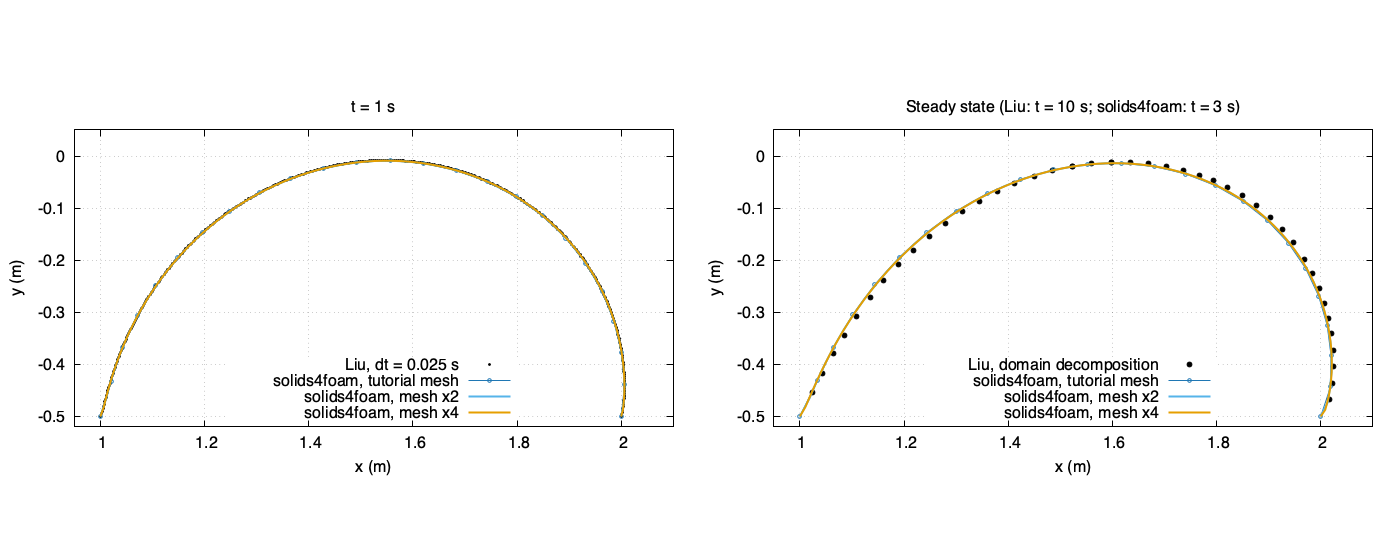
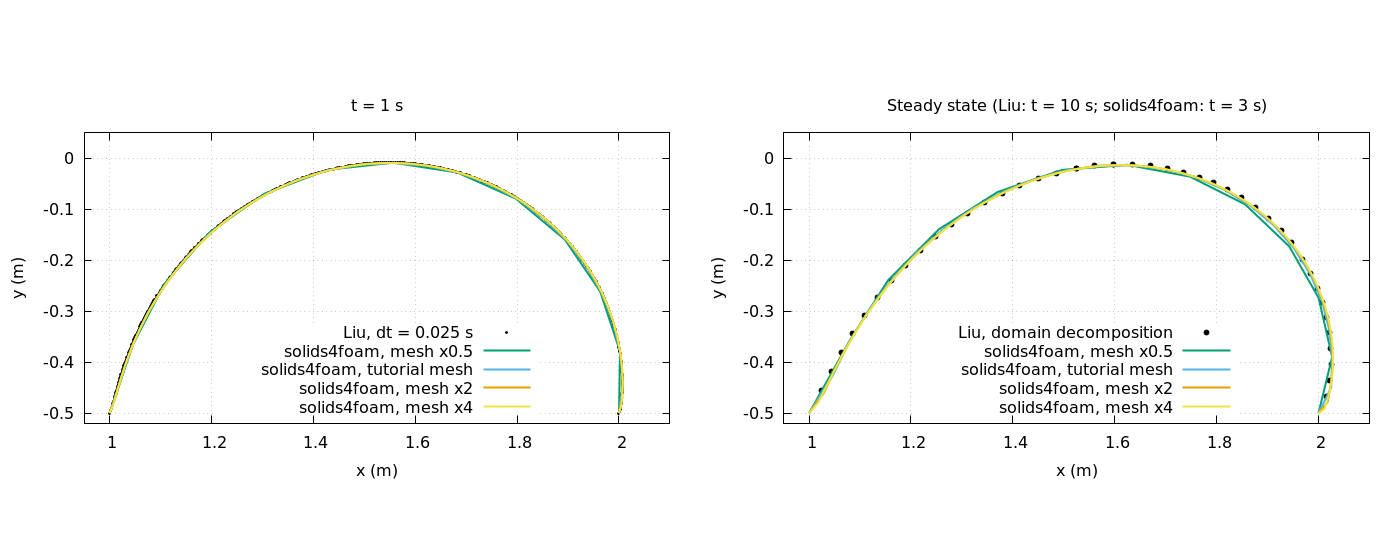
blobInTreacle: regression references, README and figures for the finite-strain solid
Regenerate the regression references (OpenFOAM v2512, serial), rewrite
the case description, and re-record the verification study: the time
study now shows orders 2.13 and 2.21 (2.4-2.5 before), and the mesh study
converges at order 2.00 to an extrapolated u_x of 0.14024 m, 7.9% above
the published small-strain value.

diff --git a/tutorials/fluidSolidInteraction/blobInTreacle/verification/README.md b/tutorials/fluidSolidInteraction/blobInTreacle/verification/README.md
@@ -53,9 +53,12 @@ directories, as does `./Allclean all` in the case directory; the plain case
 
 Liu et al. (2014) report only the self-convergence of their errors in time,
 not the solution itself. The preprint solves the same case, with the same
-geometry, inflow ramp and material, and describes the solid as linear. Two of
-its figures are vector graphics, from which the reference data were extracted
-exactly rather than digitised:
+geometry, inflow ramp and material, and describes the solid as linear. The
+tutorial uses a finite-strain neo-Hookean solid with the same Lamé constants
+instead (see the tutorial README), so the published data are solutions of a
+slightly different, small-strain model, and the comparison with them is
+indicative only. Two of the preprint's figures are vector graphics, from which
+the reference data were extracted exactly rather than digitised:
 
 - `reference/LiuInterface_t1.csv`: the deformed interface at `t = 1 s` from
   Fig. 5.3, computed on a P5/P4/P5 mesh with a first-order scheme and
@@ -123,12 +126,12 @@ Acceptance criteria and their basis:
 - The change in the steady `u_x` between successive levels must decrease, with
   an observed order of at least `1.5` from the three finest levels, and the
   finest `u_x` must be within 1% of the Richardson extrapolation. The
-  discretisation is second order; the observed order is 2.4.
+  discretisation is second order; the observed order is 2.0.
 - The finest steady `u_x` must be within 10% and `u_y` within 25% of the
   published top-point displacement. The published steady state comes from a
   coarse mesh, and its `u_y` is small, so these are comparisons
-  rather than tight agreements. The converged solids4foam value is 7% below
-  the published `u_x`.
+  rather than tight agreements, and they are of a small-strain model. The
+  converged solids4foam value is 8% above the published `u_x`.
 - The largest distance of the finest interface from the published one,
   divided by the largest interface displacement, must be below 5% at
   `t = 1 s`, where the reference itself carries about 4% of time error, and
@@ -140,24 +143,22 @@ only that every run completes and reaches a steady state.
 
 ## Reference results
 
-Recorded with OpenFOAM v2512 on Linux, with `--cores 4`: levels x0.5 and x1
-and the time-step study in serial, levels x2 and x4 on four MPI ranks. The
-whole study took about 33 minutes.
-
-These results predate the continuity-based wall-normal velocity gradient that
-`newMovingWallVelocity` now applies by default (#670). With it, the tutorial's
-steady top-point displacement is 0.7% smaller (0.116481 against 0.117301 on
-level x1); the tables below have not yet been re-recorded. Setting
-`continuityNormalGradient no` on the interface patch reproduces them.
+Recorded with OpenFOAM v2512 on Linux (solids4foam `development` at
+`206437983` with the finite-strain solid of this branch), with `--cores 4`:
+levels x0.5 and x1 and the time-step study in serial, levels x2 and x4 on four
+MPI ranks. The whole study took about 40 minutes.
 
 Time-step study, tutorial mesh, `t = 1 s`:
 
 | `deltaT` (s) | `u_x` (m) | Change (m) | Order | Interface order | FSI its |
 | ---: | ---: | ---: | ---: | ---: | ---: |
-| 0.25 | 0.0558737 | – | – | – | 11.5/14 |
-| 0.125 | 0.0564184 | 5.45e-4 | – | – | 13.0/14 |
-| 0.0625 | 0.0565219 | 1.04e-4 | 2.39 | 2.39 | 13.0/15 |
-| 0.03125 | 0.0565398 | 1.78e-5 | 2.54 | 2.41 | 13.1/14 |
+| 0.25 | 0.0590302 | – | – | – | 11.0/13 |
+| 0.125 | 0.0595007 | 4.71e-4 | – | – | 13.9/22 |
+| 0.0625 | 0.0596084 | 1.08e-4 | 2.13 | 2.12 | 13.9/16 |
+| 0.03125 | 0.0596316 | 2.32e-5 | 2.21 | 2.00 | 14.5/15 |
+
+The observed orders are close to the formal second order. With the earlier
+small-strain solid they were 2.4-2.5.
 
 Mesh study, top-point displacement in the steady state, and the largest
 distance of the interface from the published one divided by the largest
@@ -165,38 +166,34 @@ interface displacement:
 
 | Level | `u_x` (m) | `u_y` (m) | Change (m) | Shape, 1 s | Shape, steady |
 | ---: | ---: | ---: | ---: | ---: | ---: |
-| x0.5 | 0.108206 | -0.012650 | – | 5.5% | 12.6% |
-| x1 | 0.117301 | -0.013745 | 9.10e-3 | 1.6% | 7.8% |
-| x2 | 0.119698 | -0.014003 | 2.40e-3 | 1.6% | 6.5% |
-| x4 | 0.120152 | -0.013996 | 4.54e-4 | 1.6% | 6.3% |
+| x0.5 | 0.124852 | -0.012477 | – | 3.9% | 6.1% |
+| x1 | 0.135581 | -0.013376 | 1.07e-2 | 4.6% | 4.6% |
+| x2 | 0.139075 | -0.013717 | 3.49e-3 | 3.6% | 4.5% |
+| x4 | 0.139948 | -0.013872 | 8.72e-4 | 3.6% | 4.9% |
 
 | Level | Cores | Clock time (s) | FSI iterations per step (mean/max) |
 | ---: | ---: | ---: | ---: |
-| x0.5 | 1 | 41 | 7.7/11 |
-| x1 | 1 | 91 | 9.0/14 |
-| x2 | 4 | 376 | 10.6/16 |
-| x4 | 4 | 1430 | 11.7/18 |
+| x0.5 | 1 | 47 | 7.8/11 |
+| x1 | 1 | 111 | 9.1/14 |
+| x2 | 4 | 403 | 10.3/16 |
+| x4 | 4 | 1806 | 12.2/18 |
 
-The steady `u_x` converges at an observed order of 2.40 to an extrapolated
-`0.12026 m`; the finest level is 0.1% from it and 7.4% below the published
-`0.1297 m`, and its `u_y` is 20% larger in magnitude than the published
-`-0.0117 m`. The interface at `t = 1 s` agrees with the published one to 1.6%
-of the interface displacement on every level from x1, which is within the 4%
-time error of the reference curve itself. In the steady state the published
-half cylinder leans further downstream, by up to 6% of the displacement once
-the mesh is converged.
+The steady `u_x` converges at an observed order of 2.00 to an extrapolated
+`0.14024 m`; the finest level is 0.2% from it and 7.9% above the published
+`0.1297 m`, and its `u_y` is 19% larger in magnitude than the published
+`-0.0117 m`. The interfaces lie within 3.6-4.9% of the interface displacement
+of the published ones on the finer levels. These differences are of the order
+expected between the finite-strain model and the small-strain model of the
+published solution, which was also computed on a coarse mesh.
 
-The steady offset does not come from the time step or the mesh of the
-solids4foam solution, both of which are converged well below it. The
-published steady state was computed on the coarse mesh of the preprint,
-whereas the `t = 1 s` curve, which solids4foam reproduces, was computed with
-P5/P4/P5 elements on a refinement of it; the offset is therefore attributed
-mainly to the reference, although this cannot be confirmed from the published
-data.
+The interface forces balance to about 1e-6: the force the solid receives
+equals the force the fluid exerts. With the earlier small-strain solid, which
+integrated the fluid traction over its undeformed surface, the solid received
+about 12% less x-force.
 
 Because the published data are limited to self-convergence norms and the
-coarse-mesh figures of the preprint, an independent reference solution, e.g.
-from COMSOL, LS-DYNA or ANSYS, would be valuable; one is being arranged.
+coarse-mesh figures of the preprint, an independent reference solution of the
+finite-strain case would be valuable.
 
 ## References
 

diff --git a/tutorials/fluidSolidInteraction/blobInTreacle/README.md b/tutorials/fluidSolidInteraction/blobInTreacle/README.md
@@ -9,11 +9,12 @@ sort: 10
 - Demonstrates a partitioned fluid-solid interaction simulation with a strong
   added-mass effect: the solid and fluid densities are equal.
 - Demonstrates IQN-ILS coupling with the interface predictor.
-- Reproduces the temporal-accuracy case of Liu, Jaiman and Gurugubelli [1].
+- Is based on the temporal-accuracy case of Liu, Jaiman and Gurugubelli [1],
+  with a finite-strain solid.
 
 ## Case Overview
 
-A linear elastic half cylinder of radius $$0.5\,\mathrm{m}$$, centred at
+An elastic half cylinder of radius $$0.5\,\mathrm{m}$$, centred at
 $$(1.5, -0.5)\,\mathrm{m}$$, is attached to the floor of the channel
 $$[0, 6.5] \times [-0.5, 1]\,\mathrm{m}$$ [1]. The inlet velocity is
 
@@ -43,13 +44,24 @@ the half cylinder; the mesh drawn is finer than the tutorial mesh**
 
 The Reynolds number is of order one, so the flow is dominated by viscosity,
 hence the name. Liu et al. [1] describe the solid as linearly elastic, and the
-preprint of the same work [2] lists it as "linear"; the tutorial therefore uses
-the `linearGeometryTotalDisplacement` solid model with a `linearElastic` law.
+preprint of the same work [2] lists it as "linear". The half cylinder deforms
+by about a quarter of its radius, however, and a small-strain solid integrates
+the fluid traction over its undeformed surface: it then receives about 12%
+less force than the fluid exerts, and an exact force balance gives a
+different solution. The tutorial therefore uses a finite-strain solid
+(`nonLinearGeometryTotalLagrangianTotalDisplacement`) with a neo-Hookean law
+(`neoHookeanElastic`) and the Lamé constants of [1], which reduces to their
+model for small strains; the interface forces then balance to about 1e-6.
+St Venant-Kirchhoff is not used: it softens in compression, and the half
+cylinder collapses under the flow at $$t \approx 1.8\,\mathrm{s}$$.
 
 The fluid is solved with `pimpleFluid` and the solid with a segregated solver.
 The coupling is IQN-ILS with the interface predictor (`predictor yes` in
 `constant/fsiProperties`): with equal densities, the first coupling iterate of
-each time step otherwise sees a large added-mass error. Both regions use the
+each time step otherwise sees a large added-mass error. The secant modes of
+earlier time steps are not reused (`couplingReuse 0`): at the larger time steps
+of the verification study they give coupling iterates that invert solid cells,
+which the neo-Hookean law rejects. Both regions use the
 second-order `backward` time scheme with $$\Delta t = 0.01\,\mathrm{s}$$, and
 the case runs to $$t = 10\,\mathrm{s}$$, by which time the flow has been steady
 for several seconds.
@@ -76,8 +88,8 @@ $$(1.5, 0)\,\mathrm{m}$$, is written to
 interface to `postProcessing/fluid/forces/0/force.dat`. The half cylinder leans
 downstream as the inflow ramps up and settles once the ramp ends
 (Figure 2). The steady top-point displacement is
-$$(0.1165, -0.0136)\,\mathrm{m}$$ and the steady interface force
-$$(15.7, -24.9)\,\mathrm{N}$$ per metre of span; the vertical force is
+$$(0.1356, -0.0134)\,\mathrm{m}$$ and the steady interface force
+$$(15.7, -25.1)\,\mathrm{N}$$ per metre of span; the vertical force is
 dominated by the pressure, which is about $$25\,\mathrm{Pa}$$ at the half
 cylinder because of the viscous pressure drop along the channel.
 
@@ -90,17 +102,11 @@ Liu et al. [1] report only the self-convergence of their errors in time, not
 the solution itself. The preprint [2] shows the deformed interface at
 $$t = 1\,\mathrm{s}$$ and the deformed solid mesh in the steady state
 ($$t = 10\,\mathrm{s}$$), both drawn as vector graphics; the verification study
-extracts them to compare with. Figure 3 shows the comparison from that study.
-At $$t = 1\,\mathrm{s}$$ the tutorial mesh reproduces the published interface
-to within about 2% of the interface displacement. In the steady state the
-published half cylinder leans further downstream: the steady top-point
-displacement of [2] is $$(0.1297, -0.0117)\,\mathrm{m}$$, about 11% more than
-on the tutorial mesh. The difference shrinks with mesh refinement, and the
-remaining offset is discussed in the verification README.
-
-The published data for this case are limited to self-convergence norms and
-the coarse-mesh figures of the preprint, so an independent reference solution,
-e.g. from COMSOL, LS-DYNA or ANSYS, would be valuable; one is being arranged.
+extracts them to compare with (Figure 3). They are solutions of the
+small-strain model on a coarse mesh, so the comparison is indicative only. The
+steady top-point displacement of [2] is $$(0.1297, -0.0117)\,\mathrm{m}$$,
+4.3% below the tutorial mesh value and 7.9% below the finest level of the
+verification study.
 
 ![Figure 3: Deformed interface compared with Liu (arXiv:1401.0082).](images/blobInTreacle-interfaces.png)
 
